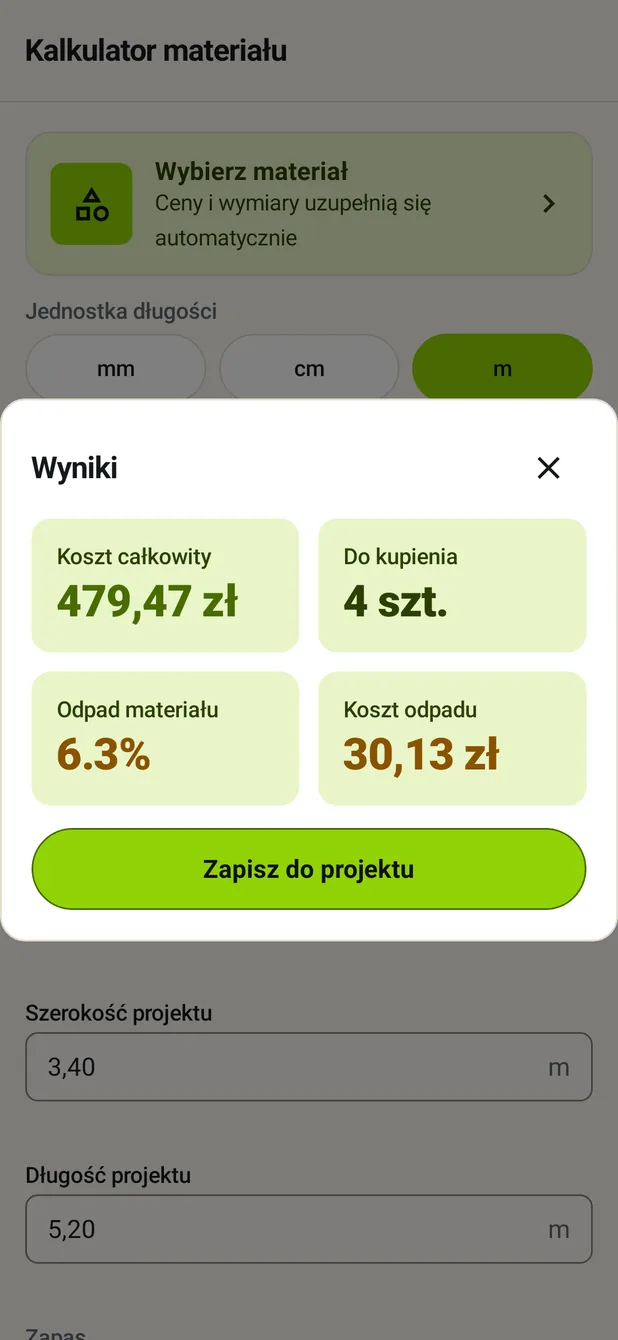
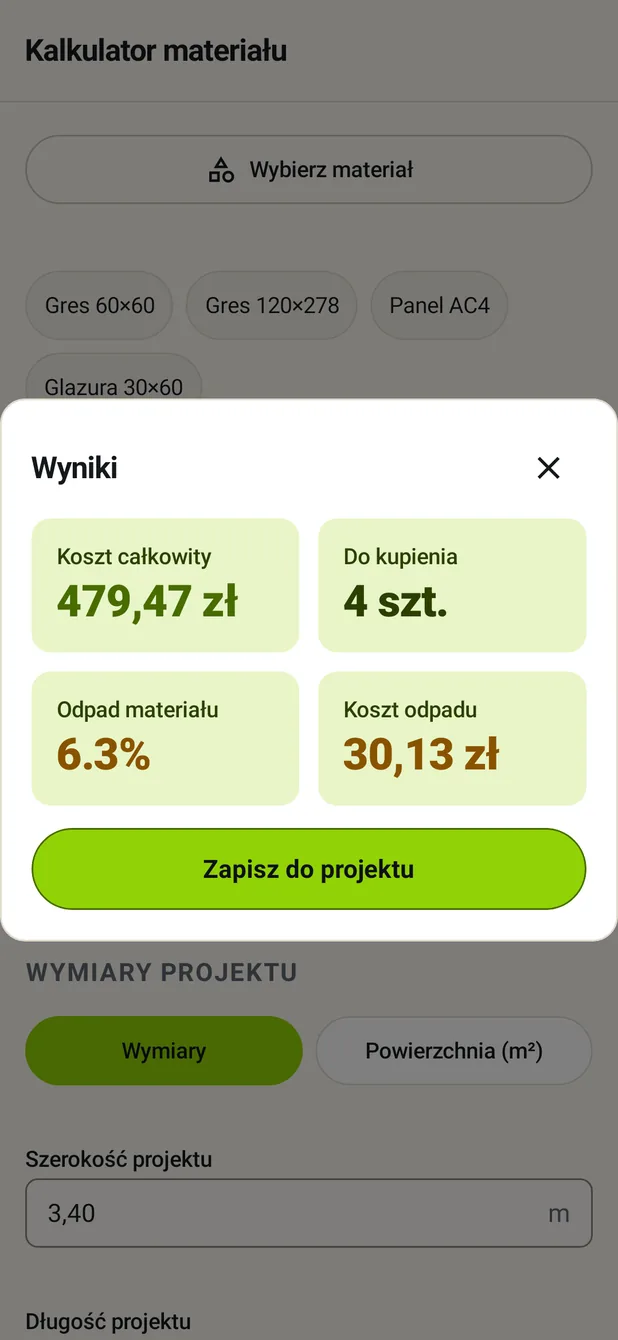
Session 56 recorded: the app's chips, buttons and badges are the site's
The work is in 3d-polednia/Materio (commit bed1926). This repo changed by the three
screenshots on /aplikacja/ and the plan.

All three changed this time, and the reason is measured rather than assumed: the material
button and its new chips changed the calculator (8,5 % of pixels), the site's chip changed
the store filters (10,4 %), and the level badges changed the home screen (16,2 %). Session
55 left pl_home alone at 0,08 %, which was the encoder rather than the app — the same
measurement, the opposite answer.

Nothing the build reads moved, so no page was regenerated and STAMP did not need bumping;
build.mjs --check still reads the same 15 calculators and 1160 keys.

B2, B3, B4 and B5 are marked done in the audit table, and point 2 of "Do zrobienia w
konsolach" names session 56: until the AAB ships, the store's calculator still opens its
catalogue with a card and offers no shortcuts.

diff --git a/docs/MASTER_PLAN.md b/docs/MASTER_PLAN.md
@@ -94,7 +94,7 @@ najpierw to, co sprawia, że LiczMat Pro da się komuś sprzedać i odebrać.
 | 53 | Terminarz w aplikacji (repo aplikacji) | **Zrobione** — 2026-08-27, commit `24faead`. Czeka na wydanie AAB (właściciel) |
 | 54 | Łańcuch i historia w aplikacji (repo aplikacji) | **Zrobione** — 2026-08-27, commit `68c026a`. Czeka na wydanie AAB (właściciel) |
 | 55 | Kształt pola formularza ze strony + przepisanie testów (repo aplikacji) | **Zrobione** — 2026-08-28, commit `0e7c47d`. Czeka na wydanie AAB (właściciel) |
-| 56 | „Wybierz materiał” i presety, jeden kształt — B2 + B3 + B4 + B5 (repo aplikacji) | **Zaplanowane** — audyt parytetu, punkt 5 kolejności |
+| 56 | „Wybierz materiał” i presety, jeden kształt — B2 + B3 + B4 + B5 (repo aplikacji) | **Zrobione** — 2026-08-28, commit `bed1926`. Czeka na wydanie AAB (właściciel) |
 | 57 | Konwerter jednostek na stronie — C1 (repo serwisu) | **Zaplanowane** |
 | 58 | Udostępnianie kosztorysu linkiem w aplikacji — C5 (repo aplikacji) | **Zaplanowane** |
 
@@ -249,6 +249,58 @@ przekodowanie bez zmiany to śmieć w historii (zmierzone: 0,08 % pikseli, czyli
 kodera, przy 18,9 % na wyszukiwarce sklepów i 2,1 % na kalkulatorze). Jak 46, 47, 50, 52,
 53 i 54 — **czeka na wydanie AAB**.
 
+Sesja 56 to piąta pozycja kolejności audytu i cztery znaleziska naraz — **B2, B3, B4 i B5** —
+bo wszystkie cztery to jeden przebieg po komponentach wspólnych. Tokeny są wspólne od
+Sesji 50; to, co zostało, to komponenty, które składały je inaczej.
+
+**B2.** Strona otwiera katalog **przyciskiem pobocznym** na całą szerokość, pod nim stawia
+jedną linię `--accent-soft` z tym, co wstawiła, a obok **rząd chipów z presetami**.
+Aplikacja rysowała kartę `--accent-soft` z limonkowym kaflem ikony i strzałką — głośniejszą
+niż akcja główna pod nią, w kształcie, którego strona nie ma nigdzie, i **bez presetów**.
+`MaterialShortcuts.kt` niesie trzy rzędy, które ma strona: cztery dla malarza, cztery
+formaty dla glazurnika i te same formaty **bez panelu** dla fugi, bo podłoga pływająca nie
+ma spoiny.
+
+**Chip nosi identyfikator z katalogu, nigdy kopię liczb.** `preset_gres1` na stronie wstawia
+1,44 m²/opak. i 7 % zapasu, a `gres-60x60` w `CatalogSurface.kt` **jest** tymi dwiema
+liczbami — rząd na stronie powstał z tego samego katalogu. Druga kopia byłaby wolna
+rozjechać się przy pierwszej poprawce formatu. Na ekranie fugi to, który chip jest wybrany,
+**wylicza się z dwóch pól**, a nie leży obok nich: `fields` to jest to, co dostaje
+`compute()`, a klucz, którego nic nie liczy, nie ma po co w tym jechać.
+
+**B3.** Chip i zakładka to ta sama pigułka z inną robotą, a strona rysuje je na **dwóch
+tłach**: `.chip` na `--surface-alt`, `.calc-tab` na `--surface`. Aplikacja miała zakładkę
+(`SegmentedControl`) i `FilterChip` z Materiala, który rysuje **trzecią** rzecz — przezroczyste
+tło za obramowaniem. `MaterioChip` to chip strony; przeszło na niego czternaście miejsc:
+filtry sklepów, presety układu, statusy zleceń, wybieraki projektu, rozstaw stelaża
+i podpowiedzi łańcucha. `SegmentedControl` **nietknięty** — wszystkie pięć jego użyć
+przełącza widok, czyli jest zakładką.
+
+**B4.** `OutlinedButton` z Materiala bierze `outline` ze schematu, czyli tutaj
+`--outline-control` (`#8b8577`) — obramowanie **pola formularza**, trzymane na 3:1, bo to
+jedyna rzecz mówiąca, gdzie dotknąć. Przycisk poboczny polem nie jest i strona daje mu
+lżejsze `--outline-strong` (`#cbc4b4`).
+
+**B5.** `LevelBadge` to `.door-level` ze strony, na każdym kaflu ekranu głównego: **BEZ
+KONTA** na czterech narzędziach, **DLA FACHOWCÓW** na czterech ekranach Pro. To etykieta,
+nigdy bramka. Do tej sesji jedynym miejscem, w którym darmowy użytkownik dowiadywał się, że
+Pro istnieje, była ściana **po** wejściu w moduł — odwrotna kolejność niż trzeba przy jedynej
+rzeczy w tym produkcie, którą się sprzedaje.
+
+Dwanaście stringów to **słowa strony** w dziesięciu językach, przepisane: osiem etykiet
+presetów, „Wstawiono z katalogu:" i trzy nazwy poziomów z rozdziału II.
+
+**259/259 testów przechodzi** (dwa nowe zestawy, osiem sprawdzeń).
+`MaterialShortcutsTest` pyta o właściwości, nie o liczby: każdy skrót istnieje w katalogu,
+każdy niesie to, o co poprosi jego kalkulator, fuga ma formaty płytek i nie ma panelu,
+a kliknięcie chipa wstawia pole opakowania **odczytane tym samym wyszukaniem** — test nie
+podaje własnej liczby, dokładnie z tego powodu, dla którego chip nie trzyma swojej.
+`LevelBadgeTest` liczy po cztery kafle każdego poziomu i mierzy chip jako cel dotyku.
+
+Po stronie serwisu: **trzy zrzuty na `/aplikacja/` przerenderowane** — tym razem zmieniły się
+wszystkie trzy ekrany (16,2 / 10,4 / 8,5 % pikseli). Jak 46, 47, 50, 52, 53, 54 i 55 —
+**czeka na wydanie AAB**.
+
 ## Audyt parytetu strona ↔ aplikacja — 27.08.2026 (Sesja 51)
 
 To jest **lista, z której biorą się Sesje 52–58**. Do 2026-08-28 leżała wyłącznie
@@ -273,10 +325,10 @@ Sesji 51 i zrzuty na `/aplikacja/`.
 | # | Co | Waga | Stan |
 |---|---|---|---|
 | B1 | **Pole formularza ma inny kształt.** Strona: etykieta nad polem, 44 px, `--field-bg`, promień 8. Aplikacja: etykieta pływająca w obramowaniu M3, 56 dp | Średnie | **Zrobione — Sesja 55** |
-| B2 | **„Wybierz materiał" to dwa różne obiekty.** Strona: przycisk poboczny + rząd chipów z presetami (Gres 60×60, Panel AC4, Glazura 30×60). Aplikacja: karta `--accent-soft` z kafelkiem ikony i strzałką, **bez presetów**. Rekomendacja audytu: kształt ze strony — presety skracają drogę do wyniku o dwa kliknięcia | Średnie | Otwarte — Sesja 56 |
-| B3 | **Chip i zakładka to na stronie dwa tła.** `.chip` na `--surface-alt`, `.calc-tab` na `--surface`; `SegmentedControl` używa bieli dla obu ról | Niskie | Otwarte — z B2 |
-| B4 | **Przycisk poboczny ma cięższą krawędź.** `.btn-ghost` bierze `--outline-strong` `#cbc4b4`; `OutlinedButton` bierze M3-owe `outline`, czyli `--outline-control` `#8b8577` — rola, która należy do pola formularza | Niskie | Otwarte — z B2 |
-| B5 | **Plakietka poziomu istnieje tylko na stronie.** Każde „drzwi" na stronie głównej mówią BEZ KONTA / LICZMAT / LICZMAT PRO (rozdział II); aplikacja nie ma odpowiednika — poziom widać dopiero po wejściu w moduł Pro, gdzie stoi ściana | Niskie | Otwarte — z B2 |
+| B2 | **„Wybierz materiał" to dwa różne obiekty.** Strona: przycisk poboczny + rząd chipów z presetami (Gres 60×60, Panel AC4, Glazura 30×60). Aplikacja: karta `--accent-soft` z kafelkiem ikony i strzałką, **bez presetów**. Rekomendacja audytu: kształt ze strony — presety skracają drogę do wyniku o dwa kliknięcia | Średnie | **Zrobione — Sesja 56** |
+| B3 | **Chip i zakładka to na stronie dwa tła.** `.chip` na `--surface-alt`, `.calc-tab` na `--surface`; `SegmentedControl` używa bieli dla obu ról | Niskie | **Zrobione — Sesja 56** |
+| B4 | **Przycisk poboczny ma cięższą krawędź.** `.btn-ghost` bierze `--outline-strong` `#cbc4b4`; `OutlinedButton` bierze M3-owe `outline`, czyli `--outline-control` `#8b8577` — rola, która należy do pola formularza | Niskie | **Zrobione — Sesja 56** |
+| B5 | **Plakietka poziomu istnieje tylko na stronie.** Każde „drzwi" na stronie głównej mówią BEZ KONTA / LICZMAT / LICZMAT PRO (rozdział II); aplikacja nie ma odpowiednika — poziom widać dopiero po wejściu w moduł Pro, gdzie stoi ściana | Niskie | **Zrobione — Sesja 56** |
 | B6 | **Tytuł ekranu.** Strona: H1 w treści, ≈ 30 px, waga 800. Aplikacja: pasek górny, 19,2 sp, waga 700 | Do decyzji | **Pytanie do właściciela** |
 
 ### C. Zakres — czego nie ma po drugiej stronie
@@ -309,8 +361,7 @@ Pierwsze pięć pozycji ma **sztywną kolejność**: 52 → 53 → 54 → 55 →
 2. ~~C2 — terminarz w aplikacji (M)~~ — **Sesja 53**
 3. ~~C3 — pasek łańcucha i historia w aplikacji (M)~~ — **Sesja 54**
 4. ~~B1 — kształt pola formularza + przepisanie testów (M)~~ — **Sesja 55**
-5. **B2 + B3 + B4 + B5 — „Wybierz materiał" i presety, jeden kształt (S)** — **Sesja 56**,
-   jeden przebieg po komponentach wspólnych, bo tokeny są już wspólne
+5. ~~B2 + B3 + B4 + B5 — „Wybierz materiał" i presety, jeden kształt (S)~~ — **Sesja 56**
 6. C1 — konwerter jednostek **na stronie** (L) — Sesja 57. Największa pozycja i jedyna,
    która dokłada serwisowi nowy ruch, a nie tylko równa wygląd
 7. C5 — udostępnianie linkiem w aplikacji (S) — Sesja 58
@@ -354,7 +405,7 @@ repozytorium — bo sesja nie ma klucza do żadnej z tych konsol i nie zakłada 
 | # | Co | Gdzie | Jak sprawdzone | Skutek, dopóki nie zrobione |
 |---|---|---|---|---|
 | 1 | `firebase deploy --only firestore` | Firebase CLI, z katalogu głównego repo `Materio` | Stan repo: `validClient()`, `validJob()`, `validQuote()` są w `config/firebase/firestore.rules` od Sesji 46. Wdrożenia nie da się odczytać bez klucza albo konta — **niesprawdzone na żywo** | **Klienci, zlecenia i wyceny nie jadą na telefon**, a „wyślij" w `/app/` kończy się `PERMISSION_DENIED`. Szczegóły niżej |
-| 2 | **Wydanie AAB — dopiero po punkcie 1** | Play Console | Zmierzone: w produkcji stoi **1.10.2 (`versionCode` 11002)**, a `main` ma niewydane commity (Sesje 46, 47, 50, 52, 53, 54 i 55) przy **tej samej** wersji | Poprawka zaokrąglenia z Sesji 47 nie dotarła do nikogo: telefon liczy inaczej niż serwis. Ekrany Pro też nie. Wygląd z Sesji 50 też nie — w sklepie stoi aplikacja w starej oliwce, a `/aplikacja/` na stronie pokazuje już nową. Scalenie kalkulatora z Sesji 52 też nie: w sklepie wybierak dalej ma szesnaście pozycji zamiast piętnastu. Kształtu pola z Sesji 55 też nie: w sklepie formularz dalej ma etykietę wpuszczoną w ramkę i pudełko wyższe niż na stronie. Terminarza z Sesji 53 ani ścieżki i historii z Sesji 54 też nie — kto zapłaci za Pro i otworzy telefon, dostaje trzy moduły z pięciu, mimo że w `main` jest już pięć. **Trzeba podbić `versionCode`/`versionName`** — Play odrzuca powtórzony |
+| 2 | **Wydanie AAB — dopiero po punkcie 1** | Play Console | Zmierzone: w produkcji stoi **1.10.2 (`versionCode` 11002)**, a `main` ma niewydane commity (Sesje 46, 47, 50, 52, 53, 54, 55 i 56) przy **tej samej** wersji | Poprawka zaokrąglenia z Sesji 47 nie dotarła do nikogo: telefon liczy inaczej niż serwis. Ekrany Pro też nie. Wygląd z Sesji 50 też nie — w sklepie stoi aplikacja w starej oliwce, a `/aplikacja/` na stronie pokazuje już nową. Scalenie kalkulatora z Sesji 52 też nie: w sklepie wybierak dalej ma szesnaście pozycji zamiast piętnastu. Kształtu pola z Sesji 55 ani wybieraka materiału z presetami z Sesji 56 też nie: w sklepie formularz dalej ma etykietę wpuszczoną w ramkę i pudełko wyższe niż na stronie. Terminarza z Sesji 53 ani ścieżki i historii z Sesji 54 też nie — kto zapłaci za Pro i otworzy telefon, dostaje trzy moduły z pięciu, mimo że w `main` jest już pięć. **Trzeba podbić `versionCode`/`versionName`** — Play odrzuca powtórzony |
 | 3 | **Opis w sklepie wysyła ludzi na martwą domenę** | Play Console → Główna karta sklepu, **11 języków** | Zmierzone 2026-08-27 na żywych stronach sklepu (`hl=pl,en,de,uk,cs` — w każdej **dwa** wystąpienia) | Opis mówi „kalkulatory działają też na materio-app.com" i „użyj »Nie pamiętam hasła« na materio-app.com". Ten host odpowiada **404**. Drugie zdanie kieruje kogoś, kto stracił dostęp do konta, pod adres, którego nie ma. Podmienić na `liczmat.com` |
 | 4 | Rotacja klucza `pracownik@materio-502513` | Google Cloud → IAM → Konta serwisowe | Stan z Sesji 37, niesprawdzalny stąd | Prywatny klucz RSA przeszedł przez transkrypt sesji 2026-08-26. **Najpierw nowy klucz i podmiana tam, gdzie służy do wysyłki na Play, dopiero potem kasowanie starego** |
 | 5 | Keystore i hasła w historii gita | repo `Materio` | **Zmierzone 2026-08-27:** `git ls-files` wymienia `materio-upload.jks` **i** `materio-keystore-creds.txt` — są śledzone **dziś**, nie tylko w historii. `.gitignore` ma `*.jks`, ale **nie ma** pliku z hasłami, a `.gitignore` i tak nie działa wstecz | Klucz upload i jego hasła leżą w repozytorium. Uwaga: przepis na wydanie w `CLAUDE.md` **czyta oba te pliki z korzenia repo**, więc `git rm --cached` bez zmiany przepisu zepsuje budowanie AAB. To jest decyzja właściciela, nie sesji |
